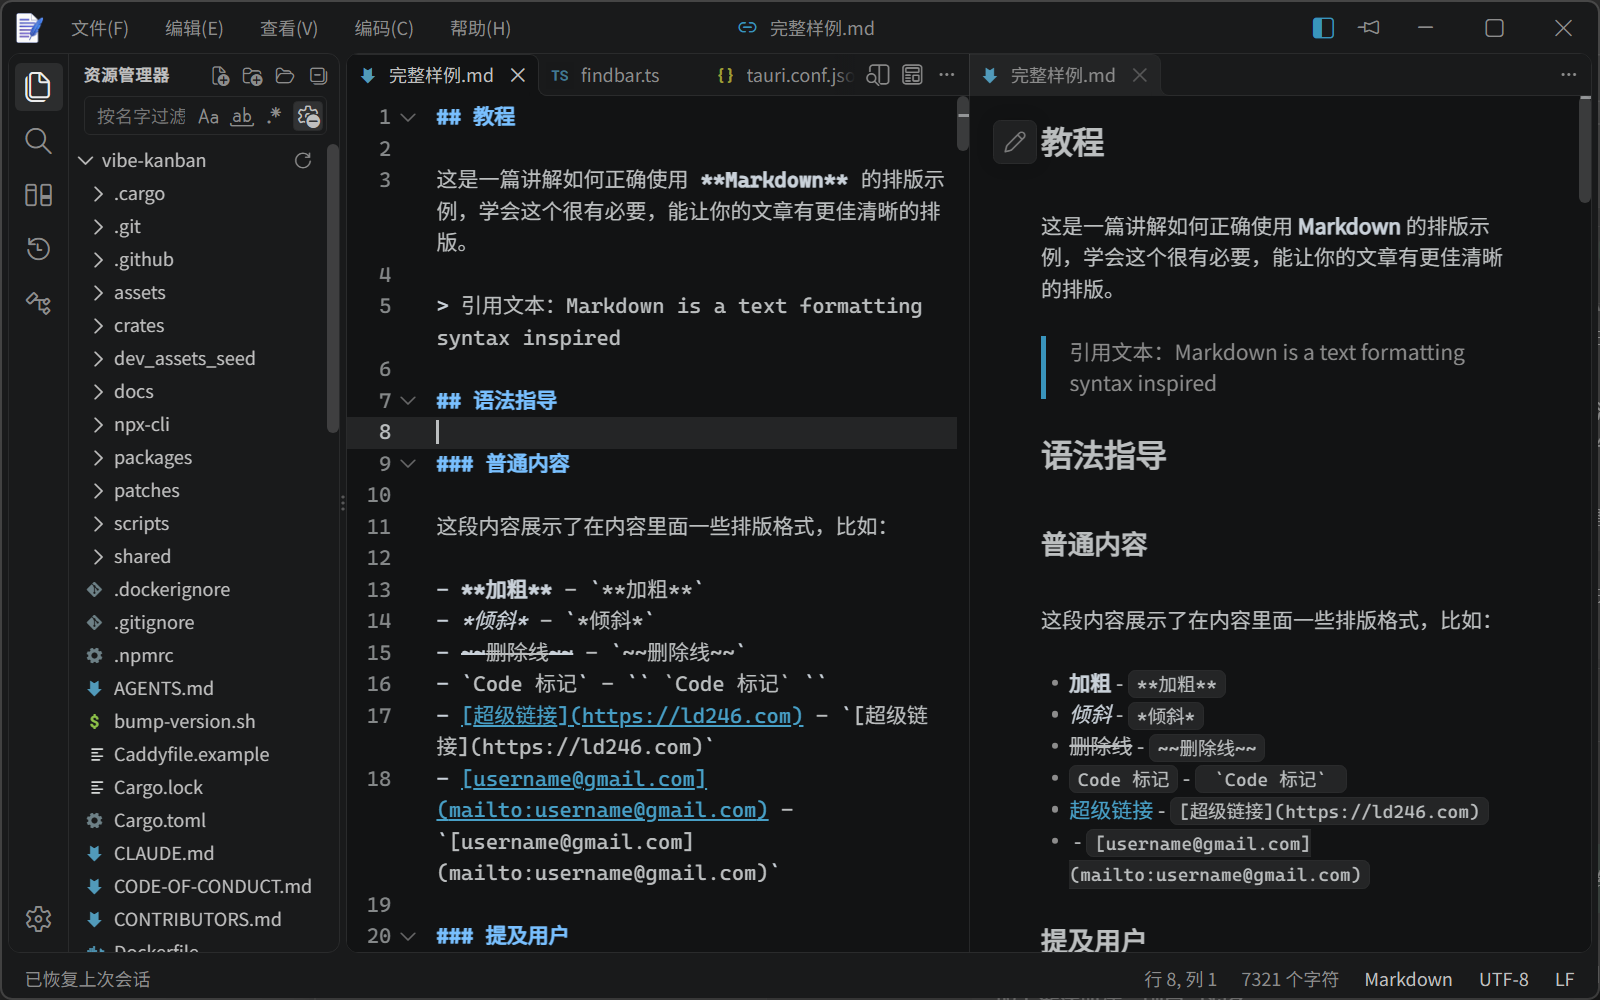
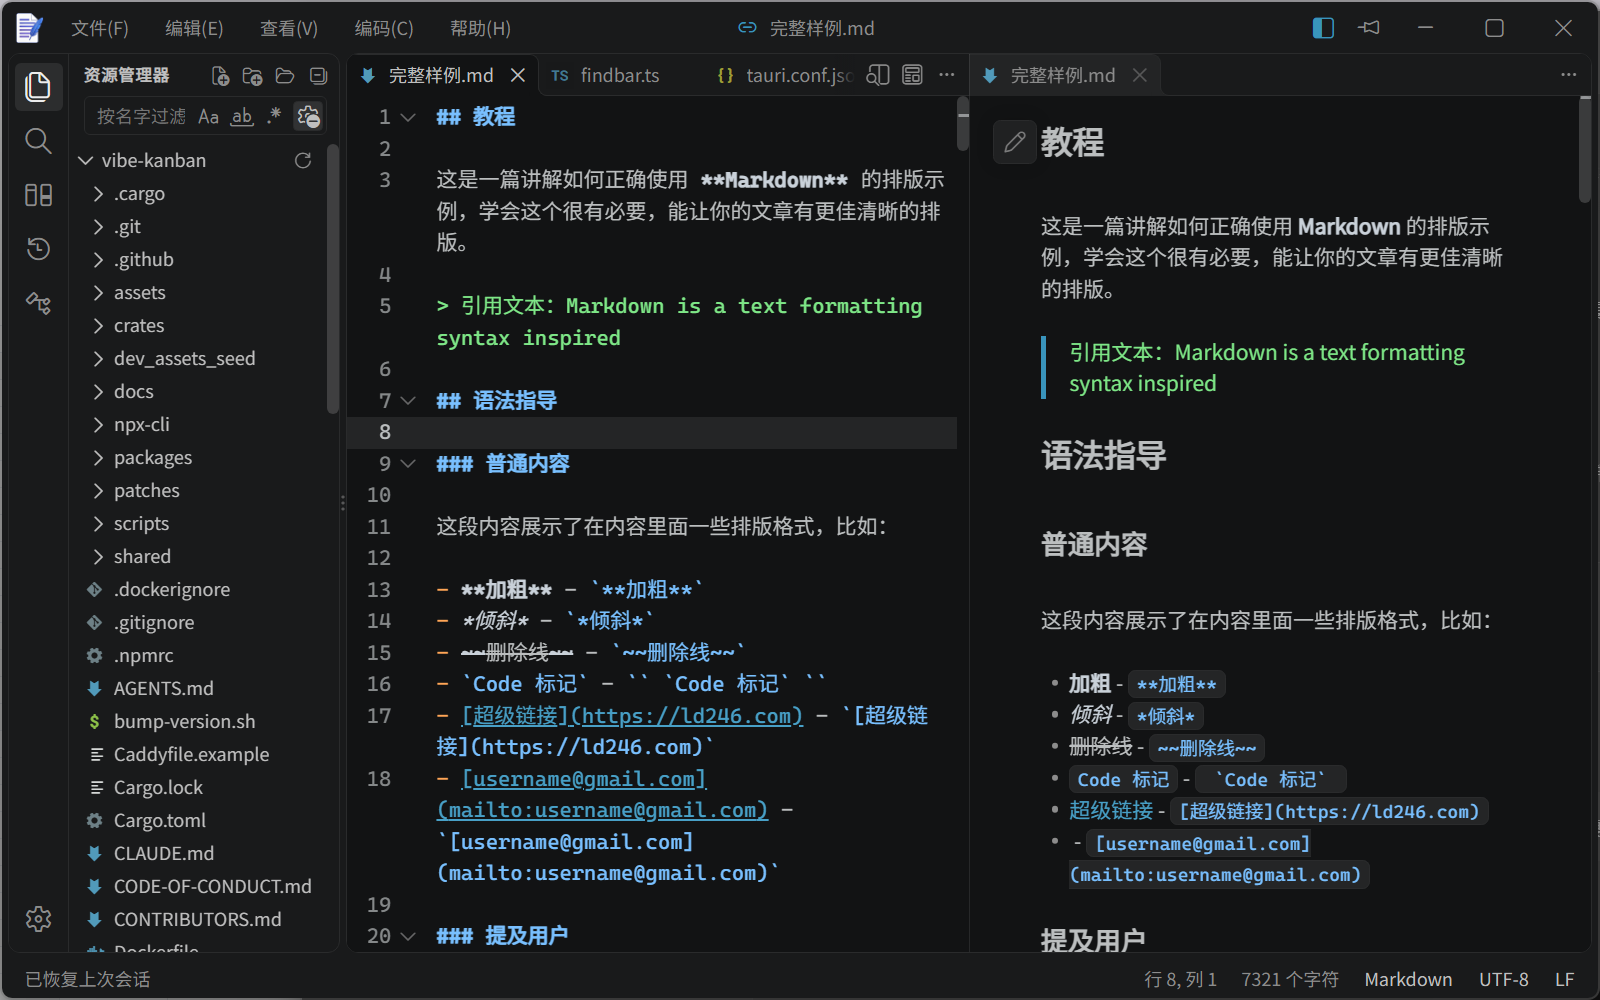
feat(editor): Markdown 语法高亮对齐 VS Code 的引用/列表/行内代码配色
- 新增 MARKDOWN_TOKENS：把 QuoteMark / ListMark / InlineCode 从
  processingInstruction 拆成独立 tag，不再与其它标点共用 meta 色；
  反引号随 InlineCode 同色，围栏代码不受影响
- 语法色表补 quote / quoteMark / listMark / inlineCode 四档：2026、
  Plus/Modern/Classic、HC 各按 VS Code 对应 tokenColors 取色
- 回归测试：五族八表色值、2026/Plus 的 DOM 实际取色、摘掉扩展后的反向验证

diff --git a/tests/theme-markdown.test.ts b/tests/theme-markdown.test.ts
@@ -1,0 +1,131 @@
+// @vitest-environment jsdom
+// Markdown 语法高亮对齐 VS Code：引用正文 / 引用标记 / 列表标记 / 行内代码各有独立
+// token（markup.quote、punctuation.definition.quote.begin、punctuation.definition.list.begin、
+// markup.inline.raw）。@lezer/markdown 默认把后三类标记全压进 processingInstruction ⇒
+// 只能落进 tags.meta 那一档；MARKDOWN_TOKENS 把它们拆开，再由 theme.ts 按主题族上色。
+// 标题标记不用拆：它本就继承 ATXHeading 的 heading。
+//
+// 取色出处：E:/Project/vscode/extensions/theme-defaults/themes/ 的 tokenColors
+// （2026-* / dark_vs / light_vs / hc_*；modern、plus 都 include 了 vs）。
+import { markdown, markdownLanguage } from "@codemirror/lang-markdown";
+import { EditorState } from "@codemirror/state";
+import type { Extension } from "@codemirror/state";
+import { EditorView } from "@codemirror/view";
+import { describe, expect, it } from "vitest";
+
+import { detectLanguage } from "../src/editor/language";
+import { vscodeEditorTheme } from "../src/editor/theme";
+import { syntaxPalette } from "../src/theme/syntax";
+import type { ThemeFamily } from "../src/theme/theme";
+
+const DOC = "**加粗**\n\n> 引用\n\n- 列表\n\n`代码`\n\n## 标题\n";
+
+/** VS Code 主题里写的是 #rrggbb；jsdom 的 computed color 一律回 rgb(...)。 */
+function rgb(hex: string): string {
+  const n = parseInt(hex.slice(1), 16);
+  return `rgb(${(n >> 16) & 255}, ${(n >> 8) & 255}, ${n & 255})`;
+}
+
+function mount(family: ThemeFamily, dark = true, parser?: Extension): EditorView {
+  return new EditorView({
+    state: EditorState.create({
+      doc: DOC,
+      extensions: [
+        parser ?? detectLanguage("sample.md").extension!,
+        vscodeEditorTheme(dark, family),
+      ],
+    }),
+    parent: document.body,
+  });
+}
+
+/** 文本片段所在的 DOM；没有语法 span（无样式 token）时退回整行。 */
+function nodeOf(view: EditorView, text: string): HTMLElement {
+  const hit =
+    [...view.contentDOM.querySelectorAll<HTMLElement>("span")].find((el) =>
+      (el.textContent ?? "").includes(text),
+    ) ??
+    [...view.contentDOM.querySelectorAll<HTMLElement>(".cm-line")].find((el) =>
+      (el.textContent ?? "").includes(text),
+    );
+  expect(hit, `找不到含「${text}」的语法 span`).toBeTruthy();
+  return hit!;
+}
+
+function colorOf(view: EditorView, text: string): string {
+  return getComputedStyle(nodeOf(view, text)).color;
+}
+
+describe("Markdown 主题色：五族两档全覆盖，照 VS Code 的 markup.* / punctuation.definition.*", () => {
+  const EXPECTED: ReadonlyArray<
+    readonly [ThemeFamily, boolean, readonly [string, string, string, string]]
+  > = [
+    // family, dark, [quote, quoteMark, listMark, inlineCode]
+    ["2026", true, ["#7ee787", "#7ee787", "#ffa657", "#79c0ff"]],
+    ["2026", false, ["#116329", "#116329", "#953800", "#0550ae"]],
+    ["modern", true, ["inherit", "#6a9955", "#6796e6", "#ce9178"]],
+    ["modern", false, ["inherit", "#0451a5", "#0451a5", "#800000"]],
+    ["plus", true, ["inherit", "#6a9955", "#6796e6", "#ce9178"]],
+    ["plus", false, ["inherit", "#0451a5", "#0451a5", "#800000"]],
+    ["classic", true, ["inherit", "#6a9955", "#6796e6", "#ce9178"]],
+    ["classic", false, ["inherit", "#0451a5", "#0451a5", "#800000"]],
+    // hc_black 没给这四类 token；hc_light 只有引用/列表标记与行内代码。
+    ["hc", true, ["inherit", "inherit", "inherit", "inherit"]],
+    ["hc", false, ["inherit", "#0451a5", "#0451a5", "#0f4a85"]],
+  ];
+
+  it("每族两档的四个 Markdown token 都落在表里", () => {
+    for (const [family, dark, [quote, quoteMark, listMark, inlineCode]] of EXPECTED) {
+      const p = syntaxPalette(family, dark);
+      expect([p.quote, p.quoteMark, p.listMark, p.inlineCode], `${family}/${dark}`).toEqual([
+        quote,
+        quoteMark,
+        listMark,
+        inlineCode,
+      ]);
+    }
+  });
+});
+
+describe("Markdown 语法高亮真的落到 DOM（2026 / Plus 两个分档口径）", () => {
+  it("2026：加粗 / 引用正文与 `>` 绿、列表符橙、行内代码蓝、标题标记跟标题", () => {
+    const view = mount("2026");
+    expect(colorOf(view, "加粗")).toBe(rgb("#c9d1d9"));
+    expect(getComputedStyle(nodeOf(view, "加粗")).fontWeight).toBe("bold");
+    expect(colorOf(view, "引用")).toBe(rgb("#7ee787"));
+    expect(colorOf(view, ">")).toBe(rgb("#7ee787"));
+    expect(colorOf(view, "-")).toBe(rgb("#ffa657"));
+    expect(colorOf(view, "代码")).toBe(rgb("#79c0ff"));
+    expect(colorOf(view, "`")).toBe(rgb("#79c0ff"));
+    expect(colorOf(view, "##")).toBe(rgb("#79c0ff"));
+    view.destroy();
+  });
+
+  it("Plus：加粗 / 引用正文沿用正文色，`>` / 列表符 / 行内代码各有标记色", () => {
+    const view = mount("plus");
+    expect(colorOf(view, "加粗")).toBe(rgb("#569cd6"));
+    expect(getComputedStyle(nodeOf(view, "加粗")).fontWeight).toBe("bold");
+    expect(colorOf(view, "引用")).not.toBe(rgb("#6a9955"));
+    expect(colorOf(view, ">")).toBe(rgb("#6a9955"));
+    expect(colorOf(view, "-")).toBe(rgb("#6796e6"));
+    expect(colorOf(view, "代码")).toBe(rgb("#ce9178"));
+    expect(colorOf(view, "`")).toBe(rgb("#ce9178"));
+    expect(colorOf(view, "##")).toBe(rgb("#569cd6"));
+    view.destroy();
+  });
+
+  it("反向验证：摘掉 MARKDOWN_TOKENS 后，这些标记退回 meta / 默认色（判据会红）", () => {
+    const view = mount("2026", true, markdown({ base: markdownLanguage }));
+    // 默认 styleTags：ListMark 是 processingInstruction（tags.meta 的子 tag）
+    // ⇒ 拿到 strong 档 #c9d1d9；InlineCode 的 monospace 没有样式。
+    expect(colorOf(view, "-")).toBe(rgb("#c9d1d9"));
+    expect(colorOf(view, "代码")).not.toBe(rgb("#79c0ff"));
+    view.destroy();
+
+    // `>` 在 2026 会从 Blockquote 继承 quote（绿），但 Plus 的 quote 是 inherit
+    // ⇒ 没有 mdQuoteMark 这一档，引用标记就没有自己的颜色。
+    const plus = mount("plus", true, markdown({ base: markdownLanguage }));
+    expect(colorOf(plus, ">")).not.toBe(rgb("#6a9955"));
+    plus.destroy();
+  });
+});

diff --git a/src/theme/syntax.ts b/src/theme/syntax.ts
@@ -31,6 +31,13 @@ export interface SyntaxPalette {
   heading: string;
   strong: string;
   emphasis: string;
+  /** Markdown 专属：引用正文 / 引用标记 / 列表标记 / 行内代码（对应 markup.quote、
+   *  punctuation.definition.quote.begin、punctuation.definition.list.begin、
+   *  markup.inline.raw）。VS Code 主题没给的是 `inherit`（落回正文色）。 */
+  quote: string;
+  quoteMark: string;
+  listMark: string;
+  inlineCode: string;
   inserted: string;
   deleted: string;
   changed: string;
@@ -60,6 +67,10 @@ const plusDark: SyntaxPalette = {
   heading: "#569cd6",
   strong: "#569cd6",
   emphasis: "#c586c0",
+  quote: "inherit",
+  quoteMark: "#6a9955",
+  listMark: "#6796e6",
+  inlineCode: "#ce9178",
   inserted: "#b5cea8",
   deleted: "#ce9178",
   changed: "#569cd6",
@@ -88,6 +99,10 @@ const plusLight: SyntaxPalette = {
   heading: "#800000",
   strong: "#000080",
   emphasis: "#800080",
+  quote: "inherit",
+  quoteMark: "#0451a5",
+  listMark: "#0451a5",
+  inlineCode: "#800000",
   inserted: "#098658",
   deleted: "#a31515",
   changed: "#0451a5",
@@ -120,6 +135,10 @@ const y2026Dark: SyntaxPalette = {
   heading: "#79c0ff",
   strong: "#c9d1d9",
   emphasis: "#c9d1d9",
+  quote: "#7ee787",
+  quoteMark: "#7ee787",
+  listMark: "#ffa657",
+  inlineCode: "#79c0ff",
   inserted: "#7ee787",
   deleted: "#ffa198",
   changed: "#ffa657",
@@ -149,6 +168,10 @@ const y2026Light: SyntaxPalette = {
   heading: "#0550ae",
   strong: "#1f2328",
   emphasis: "#1f2328",
+  quote: "#116329",
+  quoteMark: "#116329",
+  listMark: "#953800",
+  inlineCode: "#0550ae",
   inserted: "#116329",
   deleted: "#82071e",
   changed: "#953800",
@@ -194,6 +217,11 @@ const hcDark: SyntaxPalette = {
   heading: "#6796e6",
   strong: "#ffffff",
   emphasis: "#ffffff",
+  // hc_black 只给标题上色，引用 / 列表 / 行内代码都没有 token ⇒ 落回正文色。
+  quote: "inherit",
+  quoteMark: "inherit",
+  listMark: "inherit",
+  inlineCode: "inherit",
 };
 
 const hcLight: SyntaxPalette = {
@@ -216,6 +244,9 @@ const hcLight: SyntaxPalette = {
   escape: "#ee0000",
   link: "#0f4a85",
   heading: "#0f4a85",
+  // hc_light 没给 markup.quote；引用标记 / 列表标记沿用 plusLight 的 #0451a5。
+  quote: "inherit",
+  inlineCode: "#0f4a85",
   inserted: "#096d48",
   deleted: "#5a5a5a",
   changed: "#0451a5",

diff --git a/src/editor/markdownTokens.ts b/src/editor/markdownTokens.ts
@@ -1,0 +1,25 @@
+// Markdown 的标记符在 VS Code 里各有自己的 TextMate scope（引用 `>` / 列表 `-` / 行内代码），
+// 而 @lezer/markdown 默认把它们一并压进 processingInstruction —— 一个 tag 只能给一种颜色。
+// 这里把要单独取色的几类提成独立 tag；标题标记不需要拆（它本就继承 ATXHeading 的 heading，
+// 颜色和字重都对）。
+//
+// 只在 Markdown 语言档里装（language.ts），其它语言的 processingInstruction 不受影响。
+import { styleTags, Tag } from "@lezer/highlight";
+import type { MarkdownConfig } from "@lezer/markdown";
+
+/** QuoteMark / ListMark / InlineCode 的独立 tag，色值见 theme.ts 的 HighlightStyle。 */
+export const mdQuoteMark = Tag.define("markdown.quoteMark");
+export const mdListMark = Tag.define("markdown.listMark");
+export const mdInlineCode = Tag.define("markdown.inlineCode");
+
+export const MARKDOWN_TOKENS: MarkdownConfig = {
+  props: [
+    styleTags({
+      QuoteMark: mdQuoteMark,
+      ListMark: mdListMark,
+      // `/...` 让反引号也吃同一档颜色（VS Code 的 punctuation.definition.raw 落在
+      // markup.inline.raw 的父 scope 里）；围栏的 CodeMark 不在此节点下，不受影响。
+      "InlineCode/...": mdInlineCode,
+    }),
+  ],
+};

diff --git a/src/editor/theme.ts b/src/editor/theme.ts
@@ -21,6 +21,7 @@ import {
   type ViewUpdate,
 } from "@codemirror/view";
 import { syntaxPalette, type SyntaxPalette } from "../theme/syntax";
+import { mdInlineCode, mdListMark, mdQuoteMark } from "./markdownTokens";
 import type { ThemeFamily } from "../theme/theme";
 
 /** 编辑器壳层（CM6 自己的 DOM）。颜色全部来自 global.css 的主题 token。 */
@@ -119,6 +120,13 @@ function styleOf(p: SyntaxPalette): HighlightStyle {
     { tag: tags.heading, color: p.heading, fontWeight: "bold" },
     { tag: tags.strong, color: p.strong, fontWeight: "bold" },
     { tag: tags.emphasis, color: p.emphasis, fontStyle: "italic" },
+    // Markdown 的引用正文 / 引用与列表标记 / 行内代码（tag 拆分见 markdownTokens.ts）。
+    // quoteMark 必须排在 quote 之后：QuoteMark 会从 Blockquote 继承 quote，同属性上
+    // 后出现的规则才能覆盖它（Plus 档的 quote 是 inherit，靠这条才能拿到绿色标记）。
+    { tag: tags.quote, color: p.quote },
+    { tag: mdQuoteMark, color: p.quoteMark },
+    { tag: mdListMark, color: p.listMark },
+    { tag: mdInlineCode, color: p.inlineCode },
     { tag: tags.strikethrough, textDecoration: "line-through" },
     { tag: tags.inserted, color: p.inserted },
     { tag: tags.deleted, color: p.deleted },

diff --git a/src/editor/language.ts b/src/editor/language.ts
@@ -1,6 +1,7 @@
 import type { Extension } from "@codemirror/state";
 import { foldService, StreamLanguage } from "@codemirror/language";
 import { markdown, markdownLanguage } from "@codemirror/lang-markdown";
+import { MARKDOWN_TOKENS } from "./markdownTokens";
 import { MARK_SYNTAX } from "../preview/markSyntax";
 import { FOOTNOTE_SYNTAX } from "../preview/footnoteSyntax";
 import { markdownFormatExtensions } from "../preview/format";
@@ -207,7 +208,13 @@ const REGISTRY: Entry[] = [
     // B444 · `FOOTNOTE_SYNTAX` 同一处补：脚注引用被 inline Link 吞成引用式链接（下划线），
     // 脚注定义的缩进正文被判成缩进代码块（范围异常）。
     parser: [
-      markdown({ base: markdownLanguage, extensions: [MARK_SYNTAX, FOOTNOTE_SYNTAX] }),
+      markdown({
+        base: markdownLanguage,
+        // MARKDOWN_TOKENS：把 QuoteMark / ListMark / InlineCode 从 processingInstruction
+        // 拆成独立 tag —— VS Code 这几类各有自己的 scope（见 markdownTokens.ts）；
+        // 不拆的话语法高亮只能给它们同一种颜色。
+        extensions: [MARK_SYNTAX, FOOTNOTE_SYNTAX, MARKDOWN_TOKENS],
+      }),
       markdownFormatExtensions(),
     ],
   },
